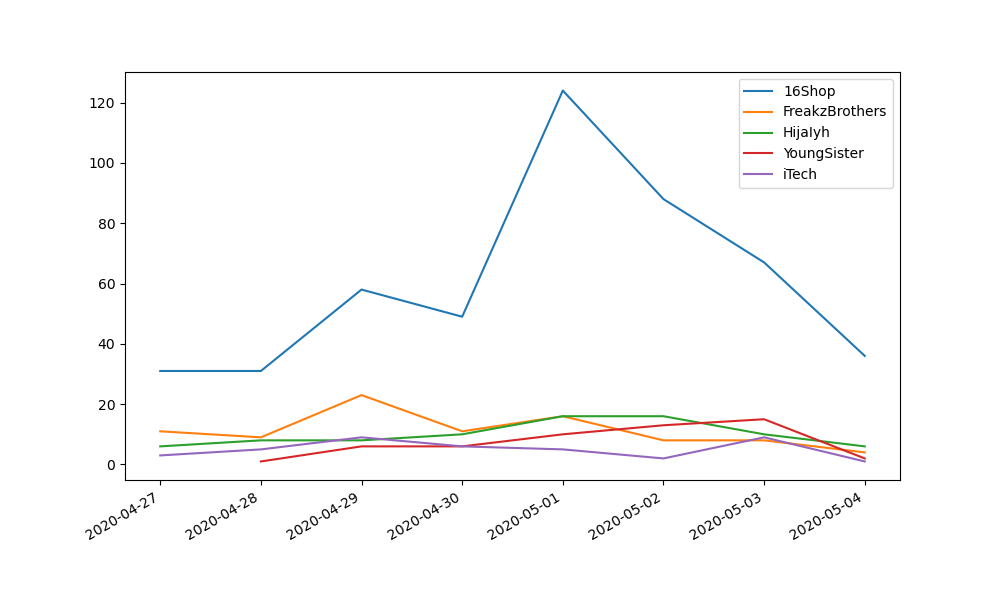
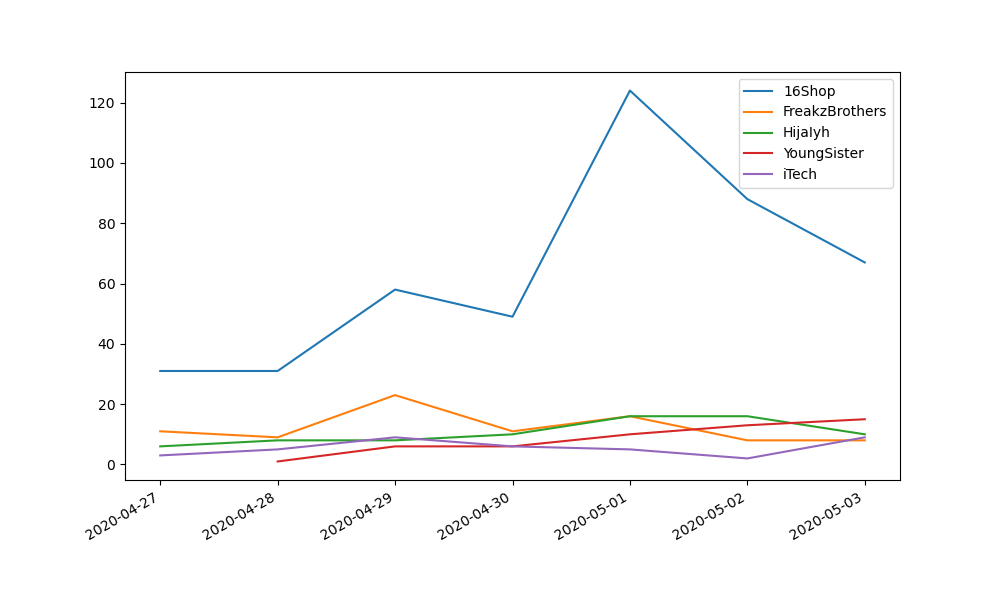
fixes to some data

diff --git a/_posts/2020-05-04-PhishingReel-Weekly-Report.md b/_posts/2020-05-04-PhishingReel-Weekly-Report.md
@@ -35,7 +35,7 @@ The below contains data points for detections of all kits, not limited to the to
 | Unique panels | 14 | 🔼 |
 | Unique IP's | 236 | 🔼 |
 | Kits downloaded | 229 | 🔼 |
-| Unique domains | 674 | 🔼 |
+| Unique domains | 631 | 🔼 |
 
 **Note:** Unique domains do not include subdomains.
 {: .notice--info}
@@ -67,7 +67,7 @@ Top 10 most commonly discovered kit owner emails detected over the past week. Th
 ![top kits graph](/assets/images/pr-weeklyreport/2020-05-04-fig1.png)
 
 {% capture notice-1 %}
-The top 5 kits were deployed a total of **647** times over the past week.
+The top 5 kits were deployed a total of **698** times over the past week.
 {% endcapture %}
 
 <div class="notice--info">
@@ -87,7 +87,7 @@ Out of the top 5 kits for the past week the date with the highest detections was
 
 {% capture notice-3 %}
 The above information is a summary of the total available data collected.  
-For further information such as trend analysis on ASN's, registrars and targeted geolcation/victim information please contact me via [Twitter](https://twitter.com/sysgoblin) or [Keybase](https://keybase.com/sysg0blin).
+For further information such analysis on ASN's, registrars and targeted geolcation/victim information please contact me via [Twitter](https://twitter.com/sysgoblin) or [Keybase](https://keybase.com/sysg0blin).
 
 If you notice any issues or incorrect information in these reports, please contact me using the above information.
 {% endcapture %}
